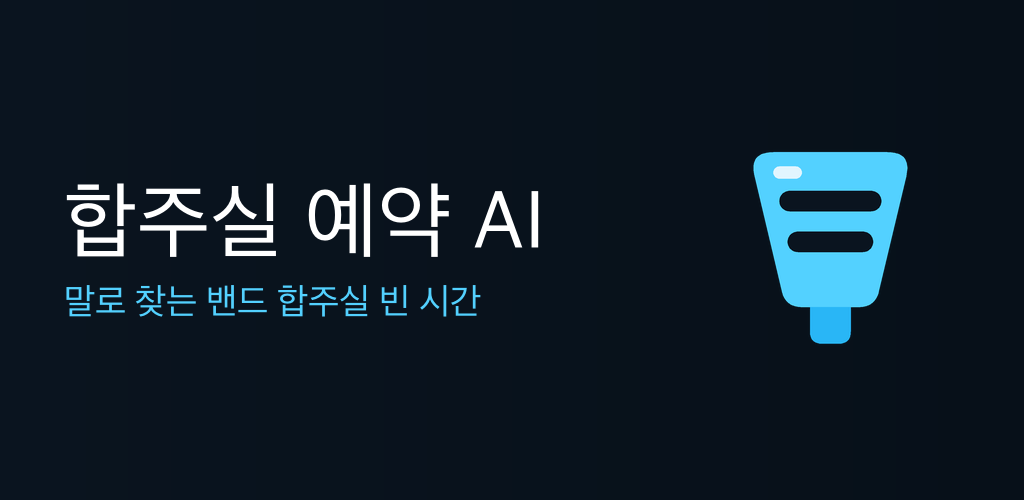
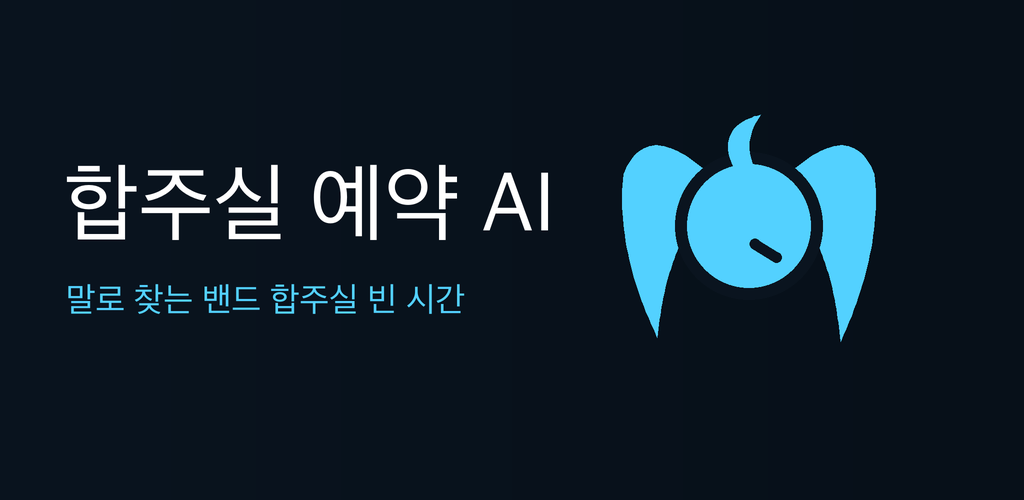
feat: 앱 아이콘을 단색 트윈테일 실루엣으로 교체 + versionCode 7
머리(원)+아호게+양갈래 스우시, 볼에 기계 단자 슬릿 — 시안 단색, 네이비 배경.
스토어 아이콘·피처 그래픽도 같은 모티프로 재생성(make-graphics.py 공유 지오메트리).

diff --git a/play/make-graphics.py b/play/make-graphics.py
@@ -1,215 +1,108 @@
 #!/usr/bin/env python3
-"""플레이스토어 그래픽 생성 스크립트.
+"""플레이스토어 그래픽 재생성 — 에네 콘셉트 단색 트윈테일 실루엣.
 
-생성물:
-  icon-512.png        512x512 32-bit PNG (앱 아이콘, 어댑티브 아이콘과 같은 디자인)
-  feature-1024x500.png 1024x500 알파 없는 PNG (피처 그래픽)
-
-디자인: 에네 볼 단자 모티프 — 시안 오디오 잭 탭 + 네이비 그릴 슬릿
-(ic_launcher_foreground.xml과 같은 좌표를 그대로 그린다)
-
-재생성: python3 make-graphics.py
+런처 벡터(app/src/main/res/drawable/ic_launcher_foreground.xml)와 같은 지오메트리를
+여기서도 그린다(108 뷰포트 좌표 공유). 모티프를 바꾸면 두 곳을 같이 바꿀 것.
+산출물: icon-512.png (512×512), feature-1024x500.png (1024×500, 알파 없음)
 """
 import math
-import os
-import re
 from PIL import Image, ImageDraw, ImageFont
 
-HERE = os.path.dirname(os.path.abspath(__file__))
+NAVY = '#0A141F'
+NAVY2 = '#071019'
+CYAN = '#53D1FF'
 
-BG = (0x0A, 0x14, 0x1F)        # #0A141F 네이비
-BG_DARK = (0x07, 0x10, 0x19)   # #071019 더 어두운 네이비(대각 절반 / 그라데이션 끝)
-CYAN = (0x53, 0xD1, 0xFF)      # #53D1FF 에네 시안
-WHITE = (255, 255, 255)
-
-SS = 4  # 안티앨리어싱용 슈퍼샘플 배율
-
-# ic_launcher_foreground.xml(108 뷰포트)과 동일한 패스. 색, pathData 순.
-JACK_PATHS = [
-    # 탭 몸체 (오디오 잭 단면), 시안
-    ("#53D1FF", "M40,30 L68,30 Q74,30 72.62,35.84 L65.92,64.11 Q65,68 61,68 "
-                "L47,68 Q43,68 42.08,64.11 L35.38,35.84 Q34,30 40,30 Z"),
-    # 그릴 슬릿 1 (네이비로 파냄)
-    ("#0A141F", "M44,39.5 L64,39.5 A2.5,2.5 0 0 1 64,44.5 L44,44.5 A2.5,2.5 0 0 1 44,39.5 Z"),
-    # 그릴 슬릿 2 (몸체 테이퍼를 따라 더 좁게)
-    ("#0A141F", "M46,49.5 L62,49.5 A2.5,2.5 0 0 1 62,54.5 L46,54.5 A2.5,2.5 0 0 1 46,49.5 Z"),
-    # 커넥터 핀, 짙은 파랑
-    ("#29B6F6", "M49,68 L59,68 L59,74 Q59,77 56,77 L52,77 Q49,77 49,74 Z"),
-    # 모서리 하이라이트
-    ("#E1F5FE", "M41.5,33.5 L45.5,33.5 A1.5,1.5 0 0 1 45.5,36.5 L41.5,36.5 A1.5,1.5 0 0 1 41.5,33.5 Z"),
-]
+# ── 런처 벡터와 공유하는 지오메트리 (108 뷰포트) ──
+HEAD = (54, 48, 15.5)
+HALO_R = 18.5
+AHOGE = [('M', (50.5, 34)), ('Q', (45, 23), (57, 20)), ('Q', (52, 27), (55.5, 33.5)), ('Q', (52.5, 34.5), (50.5, 34))]
+LTAIL = [('M', (43, 34)), ('Q', (28, 21), (22.5, 35)), ('Q', (20.5, 54), (31, 76)), ('Q', (32.5, 60), (38, 50)), ('Q', (42.5, 44), (43, 38))]
+RTAIL = [('M', (65, 34)), ('Q', (80, 21), (85.5, 35)), ('Q', (87.5, 54), (77, 77)), ('Q', (75.5, 60), (70, 50)), ('Q', (65.5, 44), (65, 38))]
+CHEEK = dict(cx=58.2, cy=54.2, th=-32, L=3.2, r=1.35)
 
 
-def _arc_points(p0, p1, rx, ry, fa, fs, n=32):
-    """W3C 끝점→중심 타원 호 변환(x-rotation 0), n등분 샘플."""
-    x1, y1 = p0
-    x2, y2 = p1
-    dx = (x1 - x2) / 2.0
-    dy = (y1 - y2) / 2.0
-    rx, ry = abs(rx), abs(ry)
-    lam = (dx * dx) / (rx * rx) + (dy * dy) / (ry * ry)
-    if lam > 1:
-        s = math.sqrt(lam)
-        rx *= s
-        ry *= s
-    num = rx * rx * ry * ry - rx * rx * dy * dy - ry * ry * dx * dx
-    den = rx * rx * dy * dy + ry * ry * dx * dx
-    co = math.sqrt(max(0.0, num / den))
-    if fa == fs:
-        co = -co
-    cxp = co * rx * dy / ry
-    cyp = -co * ry * dx / rx
-    cx = cxp + (x1 + x2) / 2.0
-    cy = cyp + (y1 + y2) / 2.0
-
-    def ang(ux, uy, vx, vy):
-        d = math.hypot(ux, uy) * math.hypot(vx, vy)
-        c = max(-1.0, min(1.0, (ux * vx + uy * vy) / d))
-        a = math.acos(c)
-        if ux * vy - uy * vx < 0:
-            a = -a
-        return a
-
-    ux, uy = (dx - cxp) / rx, (dy - cyp) / ry
-    vx, vy = (-dx - cxp) / rx, (-dy - cyp) / ry
-    th1 = ang(1.0, 0.0, ux, uy)
-    dth = ang(ux, uy, vx, vy)
-    if fs == 0 and dth > 0:
-        dth -= 2 * math.pi
-    if fs == 1 and dth < 0:
-        dth += 2 * math.pi
-    return [
-        (cx + rx * math.cos(th1 + dth * k / n), cy + ry * math.sin(th1 + dth * k / n))
-        for k in range(1, n + 1)
-    ]
+def qbez(p0, p1, p2, n=28):
+    return [((1 - t) ** 2 * p0[0] + 2 * (1 - t) * t * p1[0] + t * t * p2[0],
+             (1 - t) ** 2 * p0[1] + 2 * (1 - t) * t * p1[1] + t * t * p2[1])
+            for t in [i / n for i in range(n + 1)]]
 
 
-def _parse_path(d):
-    """M/L/Q/A/Z pathData → 폴리곤 점 목록 (Q는 24분할, A는 호 샘플)."""
-    tokens = re.findall(r"[MLQAZ]|-?\d*\.?\d+", d)
-    i = 0
-    pts = []
-    cur = None
-
-    def num():
-        nonlocal i
-        v = float(tokens[i])
-        i += 1
-        return v
-
-    while i < len(tokens):
-        t = tokens[i]
-        i += 1
-        if t in ("M", "L"):
-            cur = (num(), num())
-            pts.append(cur)
-        elif t == "Q":
-            cx, cy = num(), num()
-            x, y = num(), num()
-            x0, y0 = cur
-            for k in range(1, 25):
-                u = k / 24.0
-                pts.append((
-                    (1 - u) ** 2 * x0 + 2 * (1 - u) * u * cx + u ** 2 * x,
-                    (1 - u) ** 2 * y0 + 2 * (1 - u) * u * cy + u ** 2 * y,
-                ))
-            cur = (x, y)
-        elif t == "A":
-            rx, ry = num(), num()
-            _rot = num()
-            fa, fs = int(num()), int(num())
-            x, y = num(), num()
-            pts.extend(_arc_points(cur, (x, y), rx, ry, fa, fs))
-            cur = (x, y)
-        elif t == "Z":
-            pass
+def poly(cmds):
+    pts, cur = [], None
+    for c in cmds:
+        if c[0] == 'M':
+            cur = c[1]; pts.append(cur)
+        elif c[0] == 'Q':
+            pts += qbez(cur, c[1], c[2])[1:]; cur = c[2]
     return pts
 
 
-def draw_jack(draw, scale, ox=0.0, oy=0.0):
-    """잭 탭 모티프를 그린다. scale: 108 뷰포트 단위 1 → 픽셀 수. ox/oy: 픽셀 오프셋."""
-    for color, d in JACK_PATHS:
-        poly = [(x * scale + ox, y * scale + oy) for x, y in _parse_path(d)]
-        draw.polygon(poly, fill=color)
+def draw_motif(dr, ox, oy, scale):
+    """(ox,oy) 기준 108 뷰포트 지오메트리를 scale 배로 그린다."""
+    T = lambda p: (ox + p[0] * scale, oy + p[1] * scale)
+    for sh in (LTAIL, RTAIL):
+        dr.polygon([T(p) for p in poly(sh)], fill=CYAN)
+    cx, cy, r = HEAD
+    hr = HALO_R * scale
+    hc = T((cx, cy))
+    dr.ellipse([hc[0] - hr, hc[1] - hr, hc[0] + hr, hc[1] + hr], fill=NAVY)
+    dr.polygon([T(p) for p in poly(AHOGE)], fill=CYAN)
+    rr = r * scale
+    dr.ellipse([hc[0] - rr, hc[1] - rr, hc[0] + rr, hc[1] + rr], fill=CYAN)
+    c = CHEEK
+    t = math.radians(c['th']); ux, uy = math.cos(t), -math.sin(t)
+    a = T((c['cx'] + c['L'] * ux, c['cy'] + c['L'] * uy))
+    b = T((c['cx'] - c['L'] * ux, c['cy'] - c['L'] * uy))
+    cr = c['r'] * scale
+    dr.line([a, b], fill=NAVY, width=int(2 * cr))
+    for p in (a, b):
+        dr.ellipse([p[0] - cr, p[1] - cr, p[0] + cr, p[1] + cr], fill=NAVY)
 
 
-def make_icon(path):
-    size = 512
-    s = size * SS
-    img = Image.new("RGBA", (s, s), BG + (255,))
-    draw = ImageDraw.Draw(img)
-    # 우하단 대각선 절반 (좌상→우하 대각선 아래쪽)
-    draw.polygon([(s, 0), (s, s), (0, s)], fill=BG_DARK + (255,))
-    # 전경: 108 캔버스 → 512 스케일
-    draw_jack(draw, scale=s / 108.0)
-    img = img.resize((size, size), Image.LANCZOS)
-    img.save(path, "PNG")
+def make_icon():
+    S, SS = 512, 4
+    img = Image.new('RGBA', (S * SS, S * SS), NAVY)
+    dr = ImageDraw.Draw(img)
+    dr.polygon([(S * SS, 0), (S * SS, S * SS), (0, S * SS)], fill=NAVY2)
+    draw_motif(dr, 0, 0, S * SS / 108)
+    img.resize((S, S), Image.LANCZOS).save('icon-512.png')
 
 
-def load_korean_font(size):
-    candidates = [
-        "/System/Library/Fonts/AppleSDGothicNeo.ttc",
-        "/System/Library/Fonts/Supplemental/AppleGothic.ttf",
-        "/Library/Fonts/AppleSDGothicNeo.ttc",
-        "/System/Library/Fonts/Supplemental/NanumGothic.ttc",
-    ]
-    for p in candidates:
-        if not os.path.exists(p):
+def korean_font(size):
+    for path, idx in [('/System/Library/Fonts/AppleSDGothicNeo.ttc', 1),
+                      ('/System/Library/Fonts/AppleSDGothicNeo.ttc', 0)]:
+        try:
+            return ImageFont.truetype(path, size, index=idx)
+        except Exception:
             continue
-        for idx in range(0, 12):
-            try:
-                return ImageFont.truetype(p, size, index=idx)
-            except OSError:
-                break
-            except Exception:
-                continue
-    raise RuntimeError("한글 폰트를 찾지 못했습니다")
+    return ImageFont.load_default()
 
 
-def make_feature(path):
-    w, h = 1024, 500
-    img = Image.new("RGB", (w, h))
-    # 가로 그라데이션 #0A141F → #071019
-    for x in range(w):
-        t = x / (w - 1)
-        c = tuple(round(BG[i] + (BG_DARK[i] - BG[i]) * t) for i in range(3))
-        ImageDraw.Draw(img).line([(x, 0), (x, h)], fill=c)
-
-    # 우측 잭 모티프 (슈퍼샘플 레이어에 크게)
-    ov = Image.new("RGBA", (w * SS, h * SS), (0, 0, 0, 0))
-    od = ImageDraw.Draw(ov)
-    mark_h = 440 * SS           # 모티프 영역 높이(px)
-    scale = mark_h / 108.0
-    ox = w * SS - 108 * scale * 0.94   # 오른쪽에 붙이되 살짝 여유
-    oy = (h * SS - mark_h) / 2
-    draw_jack(od, scale=scale, ox=ox, oy=oy)
-    ov = ov.resize((w, h), Image.LANCZOS)
-    img = Image.alpha_composite(img.convert("RGBA"), ov).convert("RGB")
-
-    # 텍스트: 좌측 여백 64px, 수직 중앙 — 흰색 제목 + 시안 부제
-    draw = ImageDraw.Draw(img)
-    title_font = load_korean_font(84)
-    sub_font = load_korean_font(36)
-    margin = 64
-    title = "합주실 예약 AI"
-    sub = "말로 찾는 밴드 합주실 빈 시간"
-
-    tb = draw.textbbox((0, 0), title, font=title_font)
-    sb = draw.textbbox((0, 0), sub, font=sub_font)
-    gap = 28
-    total = (tb[3] - tb[1]) + gap + (sb[3] - sb[1])
-    top = (h - total) / 2
-    draw.text((margin, top - tb[1]), title, font=title_font, fill=WHITE)
-    draw.text((margin, top + (tb[3] - tb[1]) + gap - sb[1]), sub, font=sub_font,
-              fill=CYAN)  # 에네 시안 #53D1FF
-
-    img.save(path, "PNG")
+def make_feature():
+    W, H, SS = 1024, 500, 2
+    img = Image.new('RGB', (W * SS, H * SS), NAVY)
+    dr = ImageDraw.Draw(img)
+    # 좌→우 미세 그라데이션
+    c1 = tuple(int(NAVY[i:i + 2], 16) for i in (1, 3, 5))
+    c2 = tuple(int(NAVY2[i:i + 2], 16) for i in (1, 3, 5))
+    for x in range(W * SS):
+        t = x / (W * SS)
+        col = tuple(int(c1[k] + (c2[k] - c1[k]) * t) for k in range(3))
+        dr.line([(x, 0), (x, H * SS)], fill=col)
+    # 우측 대형 모티프 (세로 높이의 ~86%)
+    scale = H * SS * 0.86 / 108
+    draw_motif(dr, W * SS - 108 * scale - 60 * SS, (H * SS - 108 * scale) / 2, scale)
+    # 좌측 텍스트
+    title = korean_font(86 * SS)
+    sub = korean_font(34 * SS)
+    dr.text((64 * SS, 160 * SS), '합주실 예약 AI', font=title, fill='#FFFFFF')
+    dr.text((66 * SS, 282 * SS), '말로 찾는 밴드 합주실 빈 시간', font=sub, fill=CYAN)
+    img.resize((W, H), Image.LANCZOS).save('feature-1024x500.png')
 
 
-if __name__ == "__main__":
-    icon_path = os.path.join(HERE, "icon-512.png")
-    feature_path = os.path.join(HERE, "feature-1024x500.png")
-    make_icon(icon_path)
-    make_feature(feature_path)
-    print(icon_path)
-    print(feature_path)
+if __name__ == '__main__':
+    import os
+    os.chdir(os.path.dirname(os.path.abspath(__file__)))
+    make_icon()
+    make_feature()
+    print('icon-512.png / feature-1024x500.png 재생성 완료')
